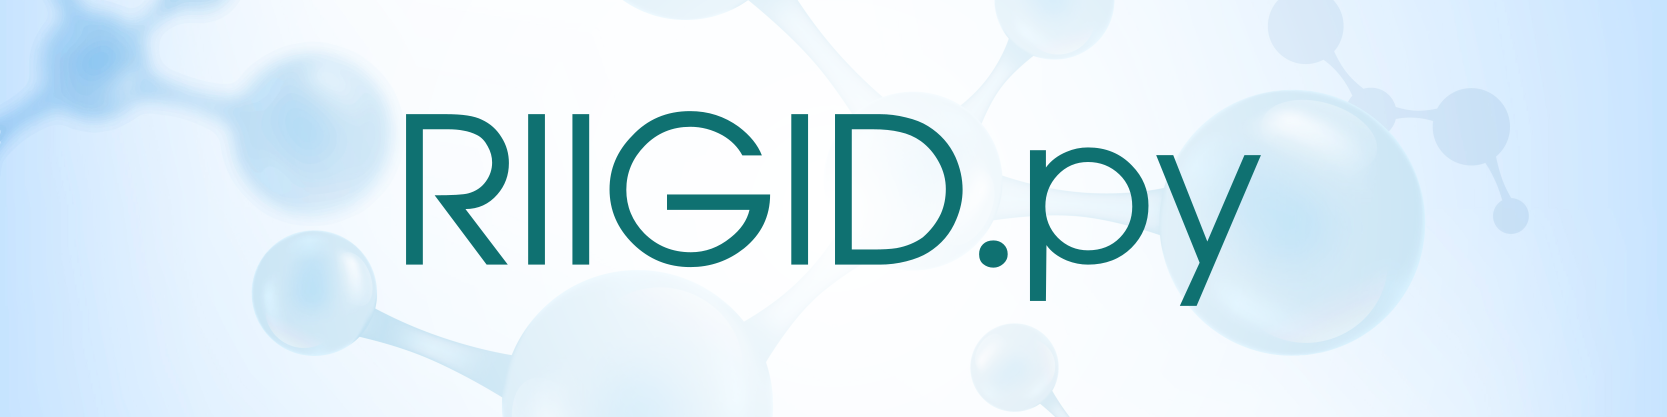
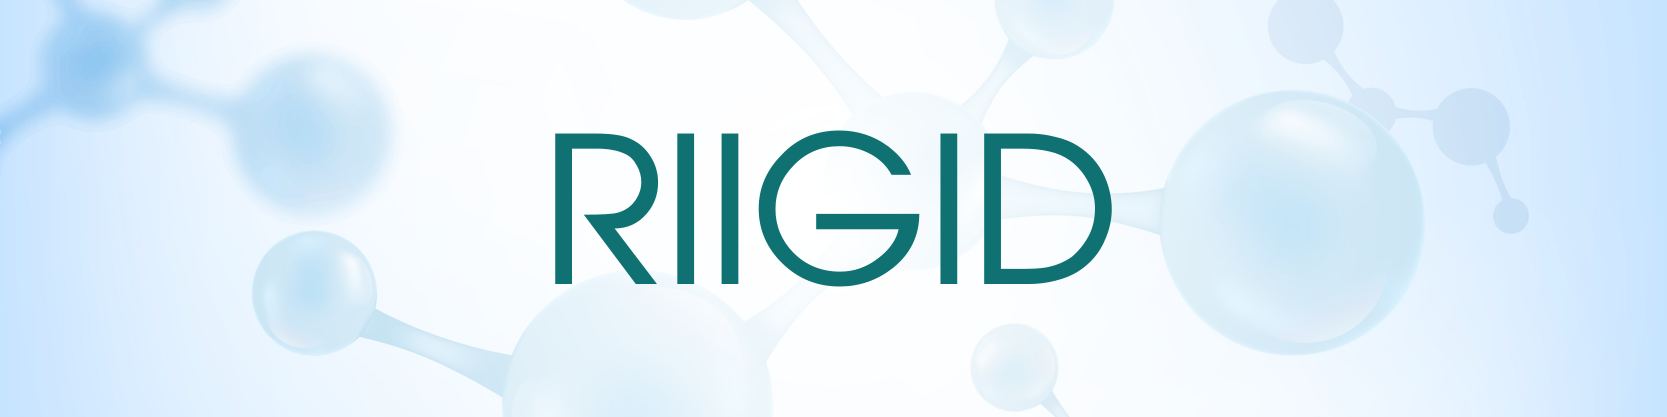
New name

Changed region(s): [[0.2184, 0.2494, 0.7798, 0.7482]]

diff --git a/setup.py b/setup.py
@@ -3,7 +3,7 @@ from setuptools import setup, find_packages
 setup(
     name="RIIGID",
     version="0.0.1a",
-    description="RIIGID.py - RIgid Interface Geometry IDentification in Python",
+    description="RIIGID - RIgid Interface Geometry IDentification in Python",
     packages=find_packages(),
     license="MIT",
     python_requires=">3.8.0",

diff --git a/README.md b/README.md
@@ -1,6 +1,6 @@
 ![Logo](https://github.com/siegfriedkaidisch/RIIGID/blob/main/riigid/resources/images/riigid_bar.png)
 
-RIIGID.py is a geometry optimization package intended to be used in theoretical solid state physics and quantum chemistry. While its initial purpose was to identify energetically favorable (surface-molecule) interface geometries, it is not restricted to periodic systems. As an example, it can also be used to find the separation between the two molecules in a dimer (gas-phase calculation).
+RIIGID is a geometry optimization (Python) package intended to be used in theoretical solid state physics and quantum chemistry. While its initial purpose was to identify energetically favorable (surface-molecule) interface geometries, it is not restricted to periodic systems. As an example, it can also be used to find the separation between the two molecules in a dimer (gas-phase calculation).
 
 #### How It Works
 The structure under investigation is separated into so-called fragments, which are a set of atoms with fixed bonds between them (usually molecules), thus forming a rigid body. Using an [ASE](https://wiki.fysik.dtu.dk/ase/) calculator, the forces on each atom are found, which are then used to calculate the force and torque on each fragment. Just like rigid bodies, the fragments are then moved in accordance to these forces and torques. This way, the energy of this system of (rigid) fragments is minimized.
@@ -33,7 +33,7 @@ riigid.run()
     
 From PyPI:
 
-    pip install RIIGID
+    pip install riigid
 
 From GitHub:
 
